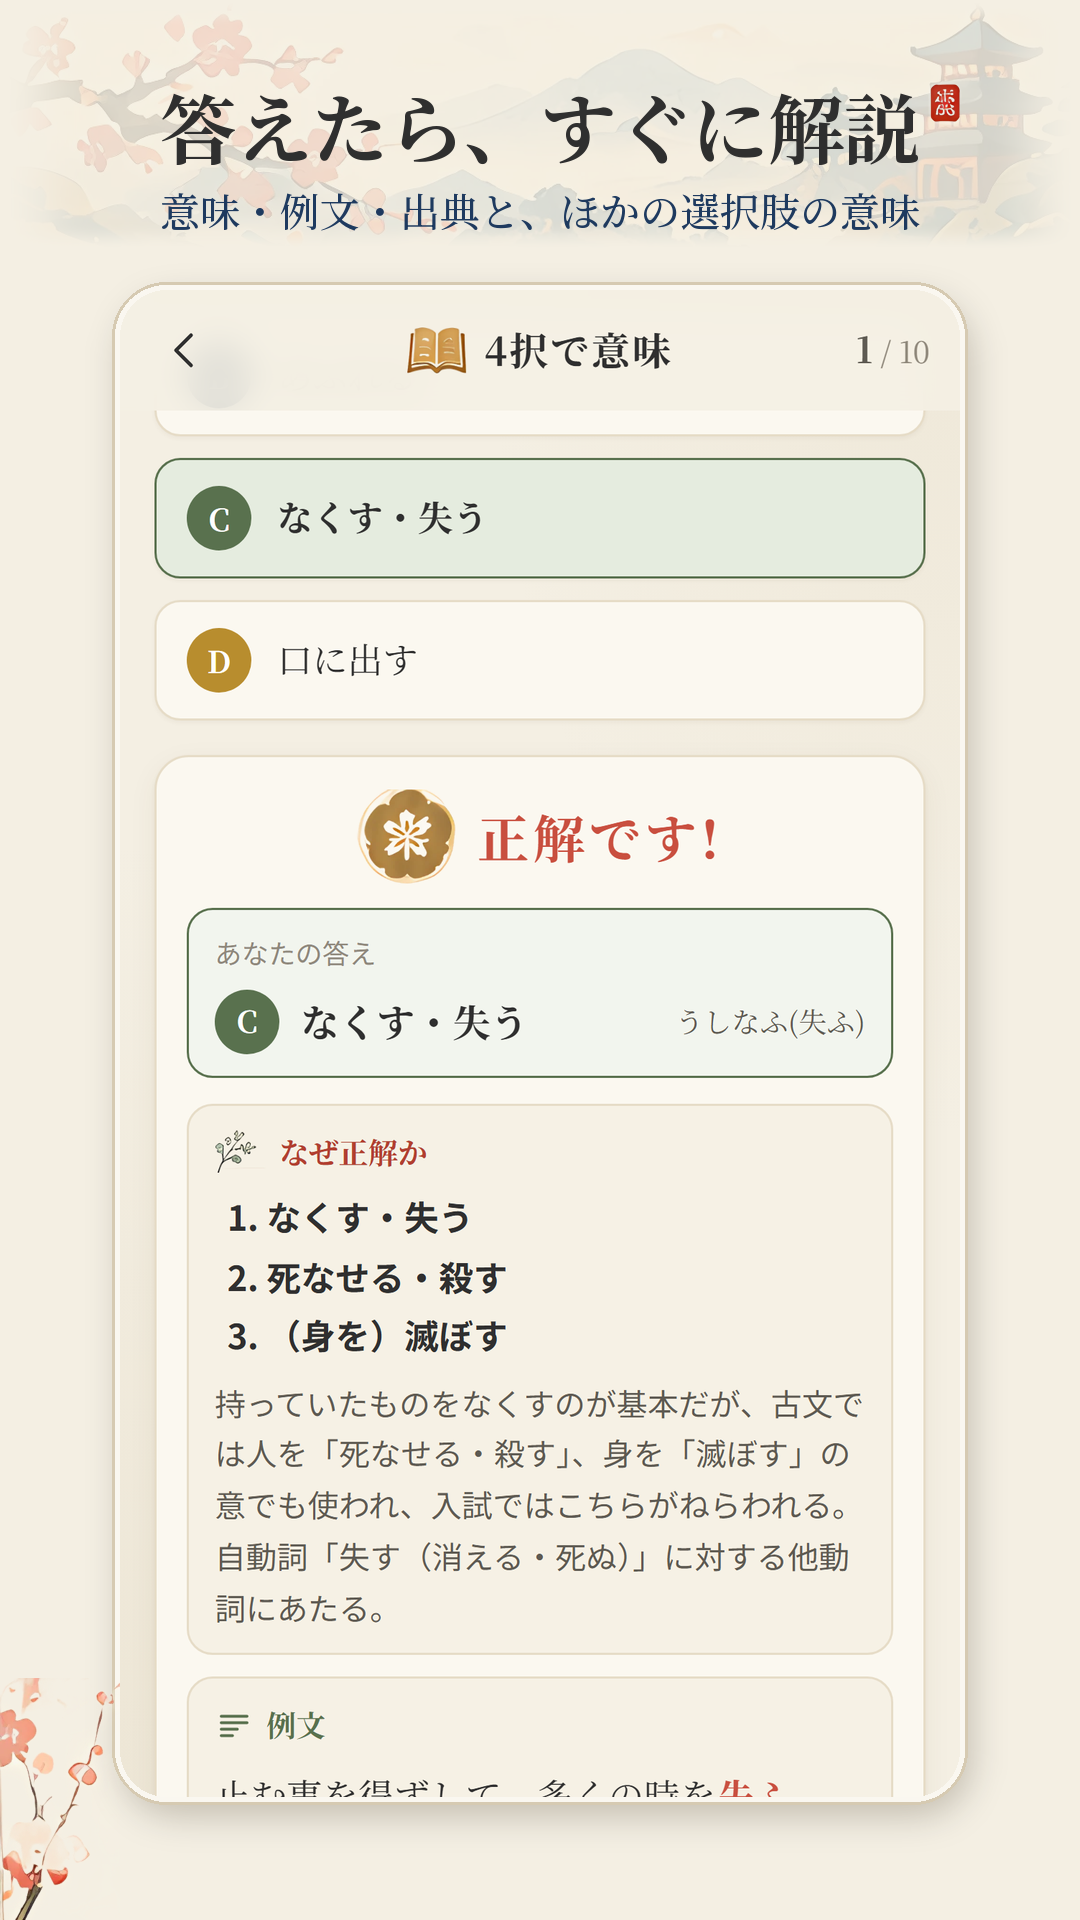
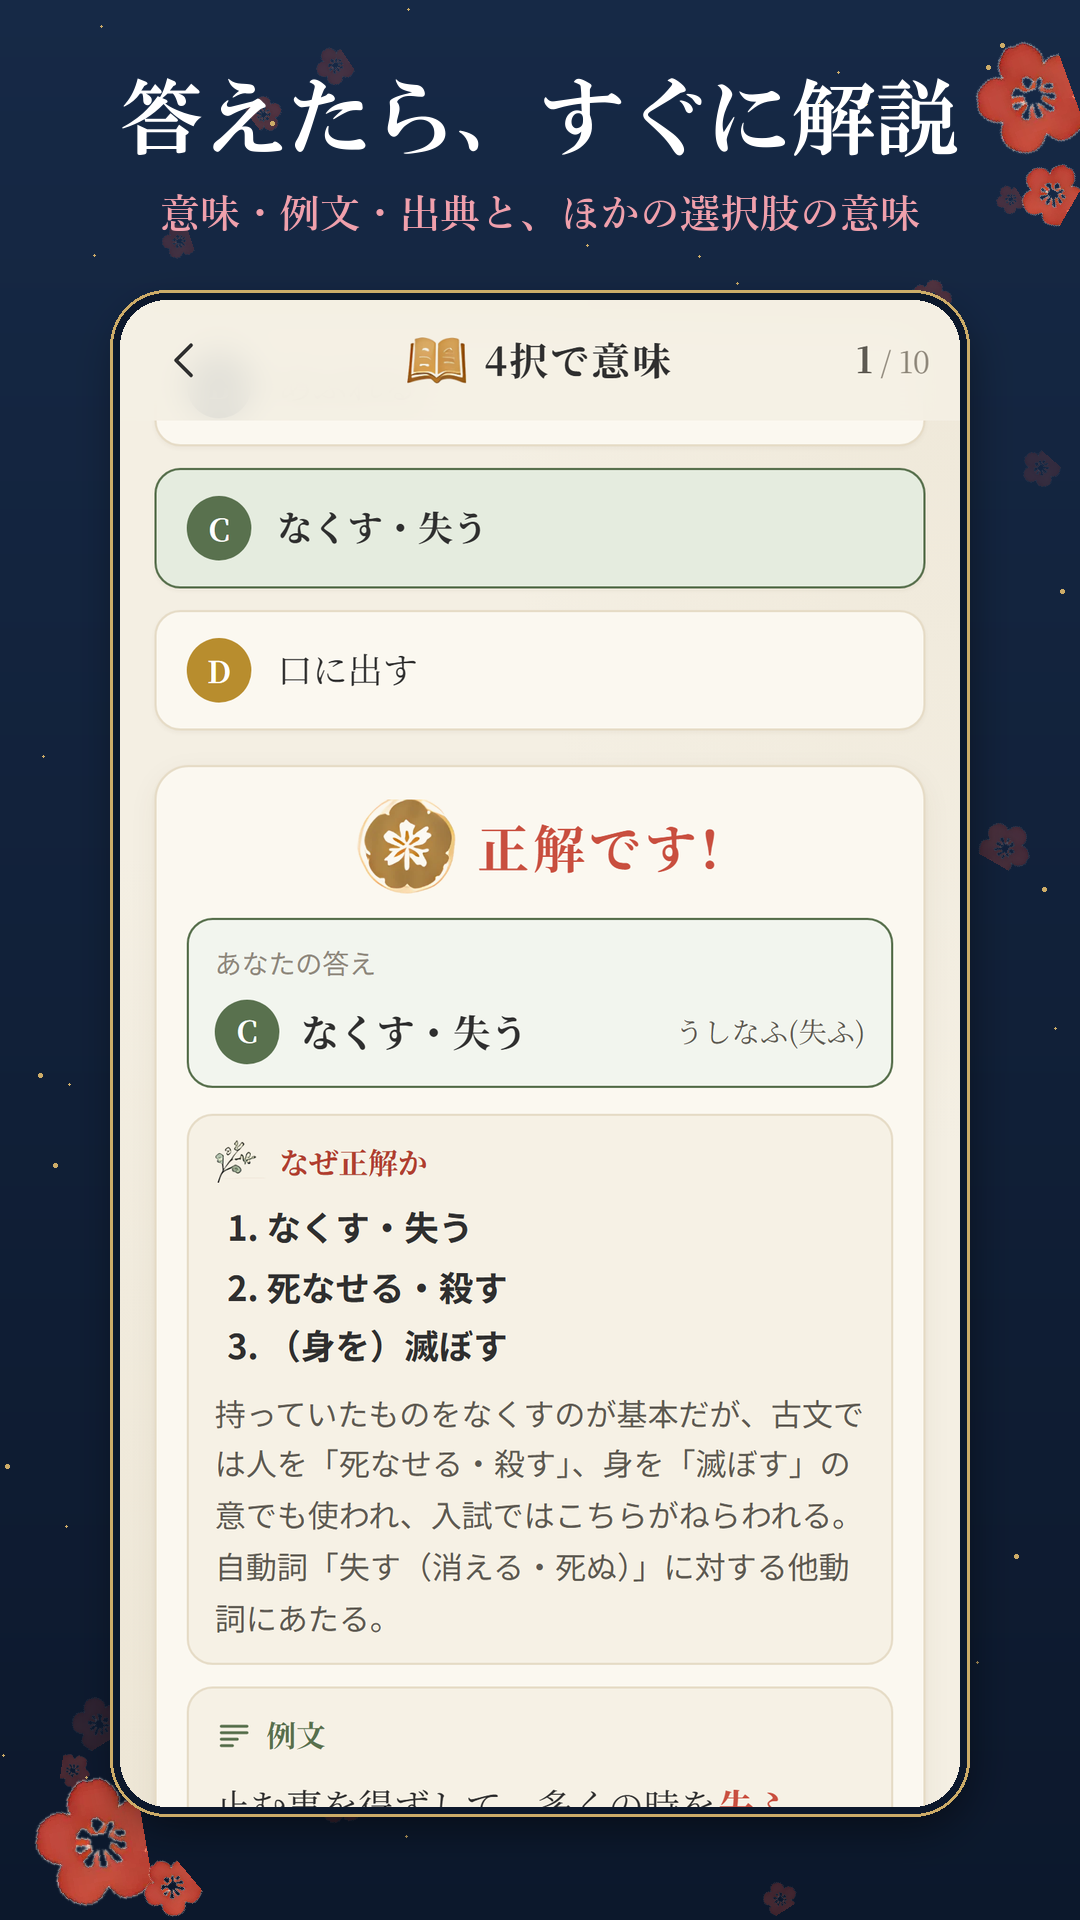
ストア画像の地を和紙(生成り)から紺と梅に変え、見出しを HG明朝E に(持ち主「Claude 特有の背景をなくして」)。元の画像は store/_cream_backup_2026-10-10/

diff --git a/scripts/make_screenshots.py b/scripts/make_screenshots.py
@@ -1,7 +1,8 @@
 """Play ストア用の画面写真とフィーチャー画像(作り直した見た目)。python scripts/make_screenshots.py [URL]
+--compose-only で撮影を飛ばして store/raw/ から組むだけにできる。
 1) 開発サーバーの見本データ(?demo=1&premium=1)で画面を撮る → store/raw/
    完全版の状態で撮るので「無料版」の文字は出ない。購入画面(値段)は撮らない
-2) 和紙の地に見出しを書いて重ねる → store/play/play_shot_1〜5.png(1080x1920)
+2) 紺の地(梅の花びら・金の星)に HG明朝E の見出しを書いて重ねる(2026-10-10 和紙の地をやめた。元は store/_cream_backup_2026-10-10/) → store/play/play_shot_1〜5.png(1080x1920)
 3) フィーチャー画像 store/play/feature.png(1024x500)。アイコン 512 は scripts/make_icon.py
 iOS の画面写真(store/shot_*.png)は iOS を出し直さないので作らない。"""
 import json
@@ -106,61 +107,100 @@ def art(name):
     return Image.open(os.path.join(IMG, name + ".webp")).convert("RGBA")
 
 
+NAVY = (22, 41, 70)       # アイコンの紺(29,60,92)を少し深く
+NAVY2 = (12, 24, 44)
+UME = (240, 160, 172)     # 梅の花の色(添え書き)
+GOLD = (205, 172, 104)    # 枠の金
+TITLE_F = "C:/Windows/Fonts/HGRME.TTC"   # HG明朝E(見出し)
+SUB_F = "C:/Windows/Fonts/yumindb.ttf"   # 游明朝 Demibold(添え書き)
+
+
+def tfont(size):
+    return ImageFont.truetype(TITLE_F, size)
+
+
+def navy_ground(W, H, seed=3):
+    """紺の地(上から下へ深く)に、梅の花びらを少しだけ散らす。2026-10-10 和紙の地をやめた"""
+    import random
+    c = Image.new("RGBA", (W, H))
+    d = ImageDraw.Draw(c)
+    for y in range(H):
+        k = y / H
+        d.line([(0, y), (W, y)], fill=tuple(round(NAVY[i] + (NAVY2[i] - NAVY[i]) * k) for i in range(3)) + (255,))
+    rnd = random.Random(seed)
+    petal = art("ic_plum")
+    for _ in range(int(W * H / 90000)):
+        s = rnd.randint(22, 46)
+        pe = petal.resize((s, int(petal.height * s / petal.width)), Image.LANCZOS).rotate(rnd.randint(0, 359), expand=True)
+        a = pe.split()[-1].point(lambda v, f=rnd.uniform(0.18, 0.4): int(v * f))
+        pe.putalpha(a)
+        c.alpha_composite(pe, (rnd.randint(0, W - 40), rnd.randint(0, H - 40)))
+    # 細い金の星(アイコンの夜空)
+    for _ in range(int(W * H / 30000)):
+        x, y = rnd.randint(0, W), rnd.randint(0, H)
+        r = rnd.choice((1, 1, 2))
+        d.ellipse((x - r, y - r, x + r, y + r), fill=GOLD + (rnd.randint(60, 150),))
+    return c
+
+
 def compose():
     W, H = 1080, 1920
     for k, (name, title, sub) in enumerate(SHOTS, 1):
-        c = Image.new("RGBA", (W, H), BG + (255,))
-        # 上の飾り: 見本の景色の絵
-        head = art("head_sub")
-        head = head.resize((W, int(head.height * W / head.width)), Image.LANCZOS)
-        c.alpha_composite(head, (0, 0))
-        veil = Image.new("RGBA", (W, head.height), BG + (215,))
-        c.alpha_composite(veil, (0, 0))
+        c = navy_ground(W, H, seed=k)
+        # 四すみに大きめの梅をはっきり
+        for (px, py, ps, rot) in ((W - 120, 30, 96, 20), (W - 70, 150, 54, -30), (24, H - 150, 110, 10), (130, H - 70, 50, 40)):
+            pe = art("ic_plum").resize((ps, int(126 * ps / 110)), Image.LANCZOS).rotate(rot, expand=True)
+            c.alpha_composite(pe, (px, py))
         d = ImageDraw.Draw(c)
-        size = 76
-        while font(size).getlength(title) > 900:
+        size = 84
+        while tfont(size).getlength(title) > 880:
             size -= 2
-        f1, f2 = font(size), font(40, 500)
+        f1, f2 = tfont(size), ImageFont.truetype(SUB_F, 40)
         tw = d.textlength(title, font=f1)
-        d.text(((W - tw) / 2, 70 + (76 - size) // 2), title, font=f1, fill=SUMI)
+        d.text(((W - tw) / 2, 74 + (84 - size) // 2), title, font=f1, fill=(255, 255, 255))
         sw = d.textlength(sub, font=f2)
-        d.text(((W - sw) / 2, 180), sub, font=f2, fill=AI)
-        seal = art("ic_seal").resize((34, 43))
-        c.alpha_composite(seal, (int((W + tw) / 2) + 8, 82))
-        # 画面
+        d.text(((W - sw) / 2, 192), sub, font=f2, fill=UME)
+        # 画面(金の細い枠)
         shot = Image.open(os.path.join(RAW, name + ".png")).convert("RGB")
         sw2 = 840
         sh2 = int(shot.height * sw2 / shot.width)
         shot = shot.resize((sw2, sh2), Image.LANCZOS)
-        x, y = (W - sw2) // 2, 290
+        x, y = (W - sw2) // 2, 300
         shadow = Image.new("RGBA", (W, H), (0, 0, 0, 0))
-        ImageDraw.Draw(shadow).rounded_rectangle([x + 6, y + 14, x + sw2 + 6, y + sh2 + 14], radius=48, fill=(70, 50, 20, 70))
-        c.alpha_composite(shadow.filter(ImageFilter.GaussianBlur(18)))
-        frame = Image.new("RGBA", (sw2 + 16, sh2 + 16), (0, 0, 0, 0))
-        ImageDraw.Draw(frame).rounded_rectangle([0, 0, sw2 + 15, sh2 + 15], radius=54, fill=(250, 247, 240, 255), outline=(214, 202, 178, 255), width=3)
-        c.alpha_composite(frame, (x - 8, y - 8))
+        ImageDraw.Draw(shadow).rounded_rectangle([x + 4, y + 18, x + sw2 + 4, y + sh2 + 18], radius=48, fill=(0, 0, 0, 130))
+        c.alpha_composite(shadow.filter(ImageFilter.GaussianBlur(22)))
+        frame = Image.new("RGBA", (sw2 + 20, sh2 + 20), (0, 0, 0, 0))
+        ImageDraw.Draw(frame).rounded_rectangle([0, 0, sw2 + 19, sh2 + 19], radius=56, fill=NAVY2 + (255,), outline=GOLD + (255,), width=3)
+        c.alpha_composite(frame, (x - 10, y - 10))
         c.alpha_composite(rounded(shot, 46), (x, y))
-        # 下の梅
-        plum = art("plum_corner")
-        plum = plum.resize((120, int(plum.height * 120 / plum.width)))
-        c.alpha_composite(plum, (0, H - plum.height))
         c.convert("RGB").save(os.path.join(PLAY, f"play_shot_{k}.png"), optimize=True)
         print("play_shot", k)
 
-    # フィーチャー画像 1024x500
+    # フィーチャー画像 1024x500: 左は紺に名前、右は山と塔の絵を窓のように切り抜く
     W, H = 1024, 500
-    c = Image.new("RGBA", (W, H), BG + (255,))
+    c = navy_ground(W, H, seed=9)
     land = art("head_home")
-    land = land.resize((W, int(land.height * W / land.width)), Image.LANCZOS)
-    c.alpha_composite(land, (0, H - land.height + 10))
+    lh = 420
+    land = land.resize((int(land.width * lh / land.height), lh), Image.LANCZOS)
+    win_w = 430
+    land = land.crop((land.width - win_w - 20, 0, land.width - 20, lh))
+    m = Image.new("L", land.size, 0)
+    ImageDraw.Draw(m).rounded_rectangle((0, 0, win_w - 1, lh - 1), radius=200, fill=255)   # 丸窓(上下が丸い)
+    land.putalpha(Image.composite(land.split()[-1], Image.new("L", land.size, 0), m))
+    wx, wy = W - win_w - 40, 40
+    ring = Image.new("RGBA", (win_w + 12, lh + 12), (0, 0, 0, 0))
+    ImageDraw.Draw(ring).rounded_rectangle((0, 0, win_w + 11, lh + 11), radius=206, outline=GOLD + (255,), width=3)
+    c.alpha_composite(land, (wx, wy))
+    c.alpha_composite(ring, (wx - 6, wy - 6))
     d = ImageDraw.Draw(c)
-    icon = Image.open(os.path.join(ROOT, "assets", "icon.png")).convert("RGB").resize((176, 176), Image.LANCZOS)
-    c.alpha_composite(rounded(icon, 38), (84, 60))
-    f1, f2 = font(92), font(36, 600)
-    d.text((300, 62), "こぶんめくり", font=f1, fill=SUMI)
-    seal = art("ic_seal").resize((30, 38))
-    c.alpha_composite(seal, (300 + int(d.textlength("こぶんめくり", font=f1)) + 6, 82))
-    d.text((306, 186), "― 古文単語600・例文つき ―", font=f2, fill=AI)
+    icon = Image.open(os.path.join(ROOT, "assets", "icon.png")).convert("RGB").resize((130, 130), Image.LANCZOS)
+    c.alpha_composite(rounded(icon, 30), (60, 70))
+    f1, f2 = tfont(82), ImageFont.truetype(SUB_F, 32)
+    d.text((58, 228), "こぶんめくり", font=f1, fill=(255, 255, 255))
+    d.text((62, 344), "古文単語600・例文つき", font=f2, fill=UME)
+    for (px, py, ps, rot) in ((470, 380, 70, 15), (520, 440, 40, -25), (250, 60, 46, 30)):
+        pe = art("ic_plum").resize((ps, int(126 * ps / 110)), Image.LANCZOS).rotate(rot, expand=True)
+        c.alpha_composite(pe, (px, py))
     c.convert("RGB").save(os.path.join(PLAY, "feature.png"), optimize=True)
     print("feature")
 
